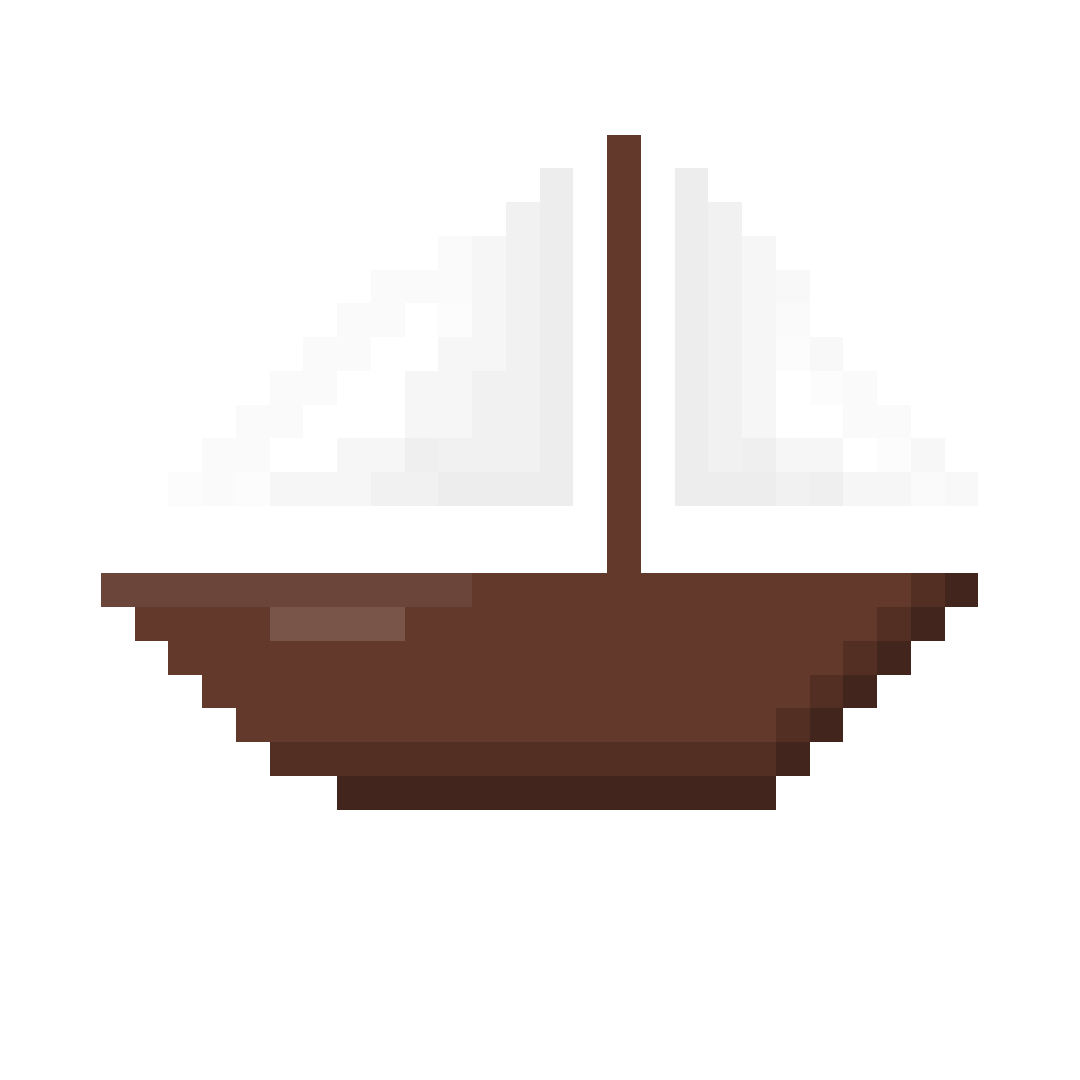
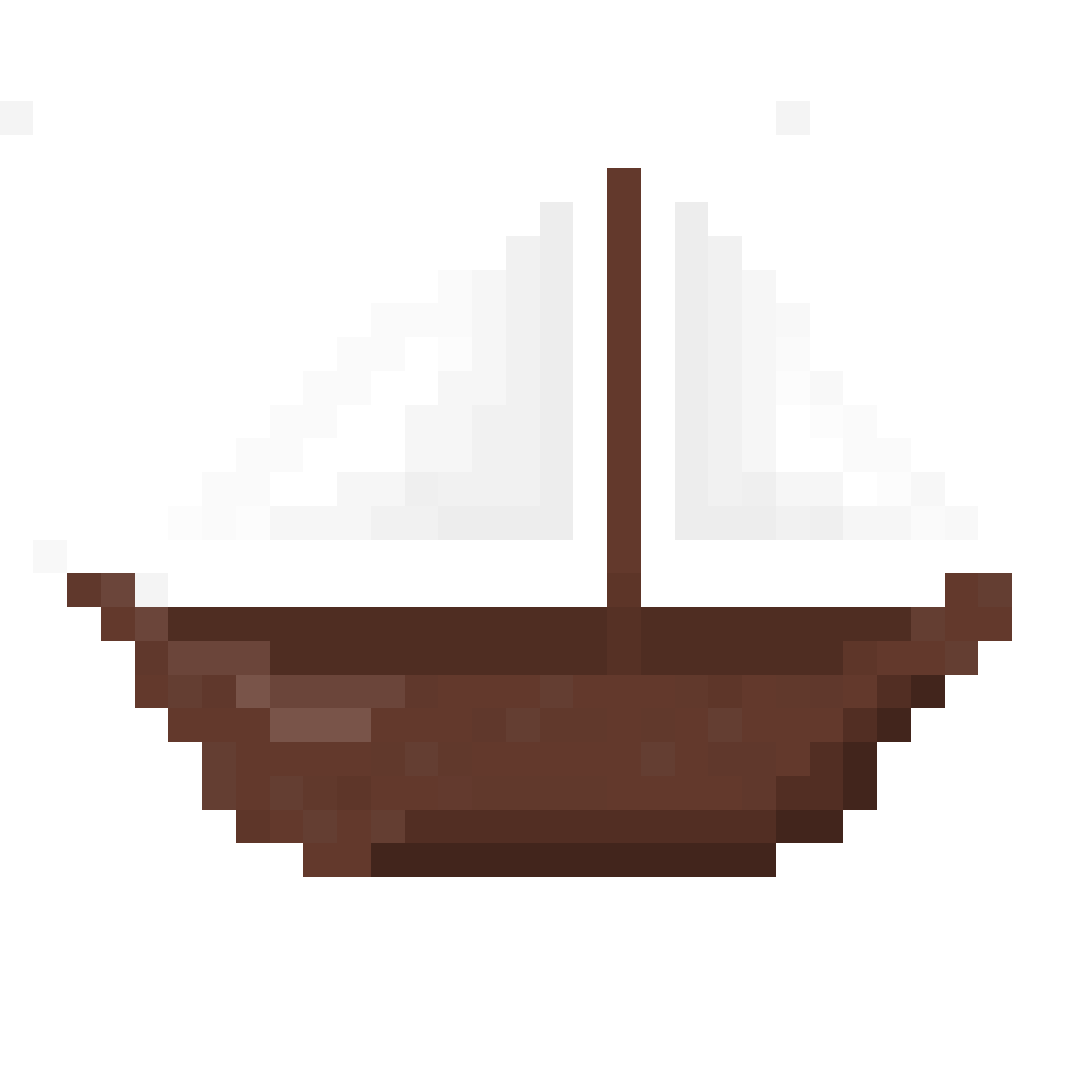
tilføjet alle skibene

Changed region(s): [[0.0611, 0.5194, 0.9472, 0.825], [0.55, 0.1222, 0.6111, 0.1528]]

diff --git a/src/main/java/GameBoard.java b/src/main/java/GameBoard.java
@@ -2,6 +2,7 @@ import processing.core.PApplet;
 import processing.core.PImage;
 import processing.core.PVector;
 
+import java.io.IOException;
 import java.util.ArrayList;
 
 public class GameBoard {
@@ -66,6 +67,8 @@ public class GameBoard {
 
     }
 
+
+
     void startGame(int antalCPU, ArrayList<PVector> cpuPos) {
 
         int playerPos = (int) p.random(0, cpuPos.size());
@@ -91,7 +94,7 @@ public class GameBoard {
         for (int i = 0; i < cpuArrayList.size(); ++i) {
 
             cpuArrayList.get(i).generateInventory();
-            cpuArrayList.get(i).boatPic = p.loadImage("Skibet32.png");
+            cpuArrayList.get(i).boatPic = p.loadImage("piratbad.png");
             // turnList.add(new Turn(p,cpuArrayList.get(i)));
         }
 

diff --git a/src/main/java/SaveManger.java b/src/main/java/SaveManger.java
@@ -8,6 +8,7 @@ import java.util.ArrayList;
 public class SaveManger {
     PApplet p;
     GameBoard gb;
+     public float increment = (float) 0.09;
     ArrayList<PVector> cpuPos = new ArrayList<>();
 
     SaveManger(PApplet p) {
@@ -259,7 +260,7 @@ public class SaveManger {
         ArrayList<PVector> waterTiles = new ArrayList<>();
         int in = 0;
 
-        float increment = (float) 0.09;
+
         int antalSand = 0;
         int antalVand = 0;
         float xoff = 0.0f; // Start xoff at 0

diff --git a/src/main/java/main.java b/src/main/java/main.java
@@ -1,4 +1,4 @@
-import com.sun.xml.internal.ws.api.config.management.policy.ManagementAssertion;
+
 import processing.core.PApplet;
 import processing.data.Table;
 import javax.sound.sampled.*;
